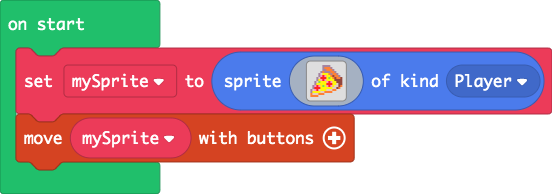
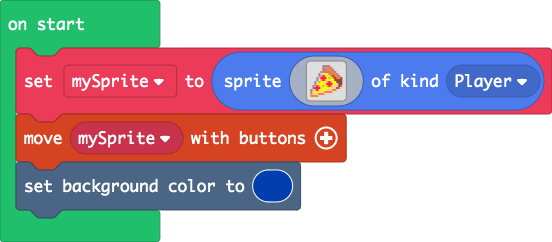
Update main.blocks, main.ts

diff --git a/main.ts b/main.ts
@@ -17,3 +17,4 @@ b 5 5 5 5 d d 4 4 4 4 . . . . .
 4 4 4 4 . . . . . . . . . . . . 
 `, SpriteKind.Player)
 controller.moveSprite(mySprite)
+scene.setBackgroundColor(8)
